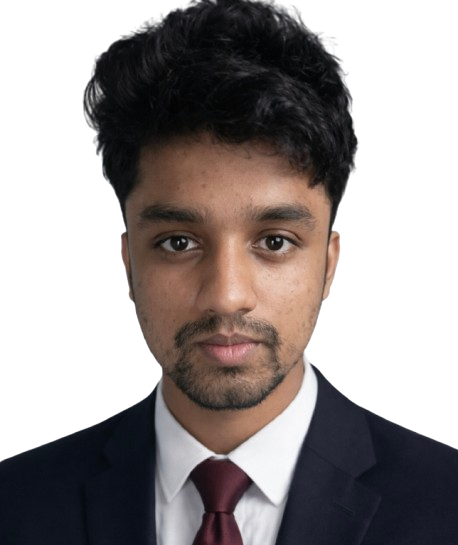
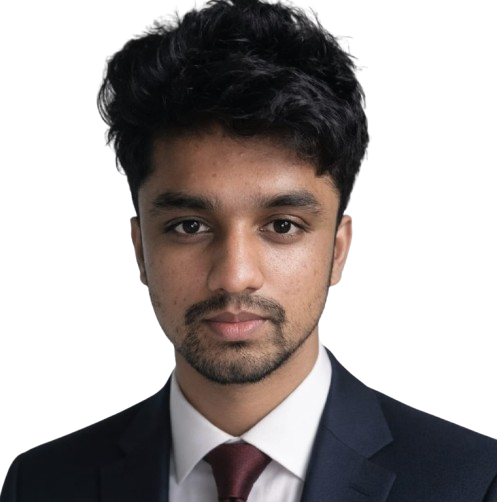
photo update

diff --git a/2nd-verse-of-CBC2.0/src/components/TeamSection.jsx b/2nd-verse-of-CBC2.0/src/components/TeamSection.jsx
@@ -24,7 +24,7 @@ const TeamSection = () => {
       badge: "PATRON",
       color: "#FBBF24",
       dept: "GAT Bengaluru",
-      image: ""
+      image: "/team/HOD.png"
     },
     {
       name: "Prof. C Christlin Shanuja",
@@ -33,7 +33,7 @@ const TeamSection = () => {
       badge: "MENTOR",
       color: "#FBBF24",
       dept: "GAT Bengaluru",
-      image: ""
+      image: "/team/Shanuja mam.png"
     },
     {
       name: "Prof. Prasanna N",
@@ -42,7 +42,7 @@ const TeamSection = () => {
       badge: "MENTOR",
       color: "#FBBF24",
       dept: "GAT Bengaluru",
-      image: ""
+      image: "/team/prasanna.png"
     },
     {
       name: "Prof. Anusha J",
@@ -51,7 +51,7 @@ const TeamSection = () => {
       badge: "MENTOR",
       color: "#FBBF24",
       dept: "GAT Bengaluru",
-      image: ""
+      image: "/team/Anusha.png"
     },
     {
       name: "Prof. Likhith Krishna Kikkeri",
@@ -60,7 +60,7 @@ const TeamSection = () => {
       badge: "MENTOR",
       color: "#FBBF24",
       dept: "GAT Bengaluru",
-      image: ""
+      image: "team/likith.png"
     },
     
 
@@ -121,7 +121,7 @@ const TeamSection = () => {
       badge: "TREASURER",
       color: "#A855F7",
       dept: "Dept. of AI & ML, GAT",
-      image: ""
+      image: "/team/yashaswini.png"
     },
     {
       name: "Janavi H B",
@@ -193,7 +193,7 @@ const TeamSection = () => {
       badge: "REGISTRATION",
       color: "#10B981",
       dept: "Dept. of AI & ML, GAT",
-      image: "/team/vinayaka.png"
+      image: "/team/Vinayaka.png"
     },
     {
       name: "Yashavantha M S",
@@ -202,7 +202,7 @@ const TeamSection = () => {
       badge: "DISCIPLINE",
       color: "#F59E0B",
       dept: "Dept. of AI & ML, GAT",
-      image: "/team/yashavantha.png"
+      image: "/team/yashvantha.png"
     },
     {
       name: "S Maha Skanda",
@@ -211,7 +211,7 @@ const TeamSection = () => {
       badge: "LOGISTICS",
       color: "#8B5CF6",
       dept: "Dept. of AI & ML, GAT",
-      image: ""
+      image: "/team/skanda .png"
     }
   ];
 
